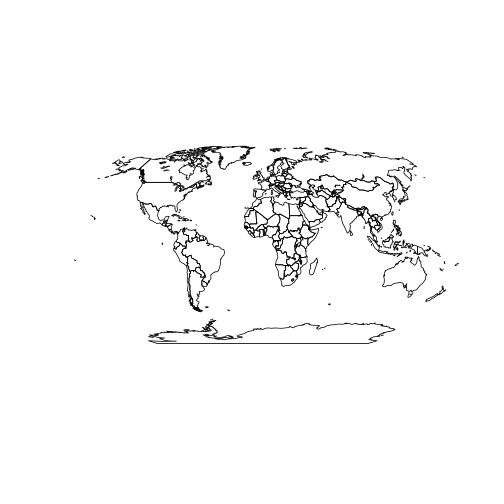
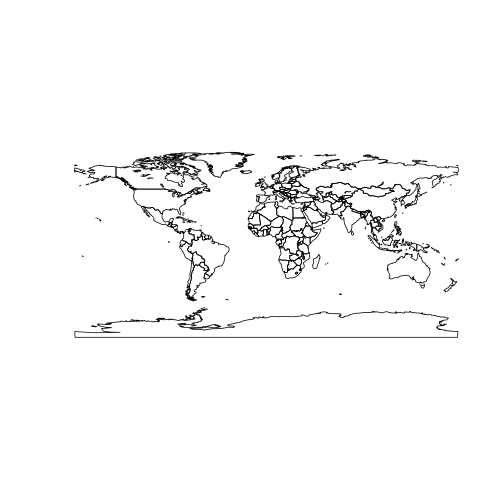
Updated also the README markdown file

diff --git a/README.md b/README.md
@@ -5,7 +5,7 @@ date: "27 April 2015"
 output: html_document
 ---
 
-`faogis` package provides you with the up-to-data shapefile that is compatible with [FAOSTAT](http://faostat.fao.org/) country codes (`FAO_CODE`). Also, shapefile data slot has a dummy variable for each FAO regions which you can subset while loading the shapefile. Fao regions are:
+`faogis` package provides you with the up-to-data shapefiles that are compatible with [FAOSTAT](http://faostat.fao.org/) country codes (`FAO_CODE`). Also, shapefiles data slots have a dummy variable for each FAO regions which you can subset the shapefile with. Fao regions are:
 
 - RAF (Africa)
 - LAC (Latin America and the Caribbean)
@@ -13,7 +13,15 @@ output: html_document
 - REU (Europe and Central Asia)
 - RNE (Near East and North Africa)
 
-There is only one function `load_fao_shape` that requires one attribute `region` that accept the fao regions as values. Default is `world` that returns the shapefile as whole.
+Shapefiles included
+
+1. **World Country Polygons** `fao_world` - class `SpatialPolygonDataFRame`
+2. **World Country Polygons Centroids** `fao_world_centroids` - class `SpatialPointDataFRame`
+
+<!--
+There are no function  only one function `load_fao_shape` that requires one attribute `region` that accept the fao regions as values. Default is `world` that returns the shapefile as whole.
+-->
+
 
 ## Install packages
 
@@ -23,41 +31,151 @@ devtools::install_github('muuankarski/gisfao')
 ```
 
 
-## Load the shapefile
+## Load and plot the polygon data
 
 
 
 ```r
-library(gisfao)
 library(sp)
-shape <- load_fao_shape()
-plot(shape)
+data(fao_world)
+plot(fao_world)
 ```
 
 ![plot of chunk unnamed-chunk-2](figure/unnamed-chunk-2-1.png) 
 
 
-## Subset the shapefile
+### Subset the data
 
 
 
 ```r
-RNE <- load_fao_shape(region = "RNE")
-plot(RNE)
+shape <- fao_world[which(fao_world[["RNE"]] == TRUE),]
+plot(shape)
 ```
 
 ![plot of chunk unnamed-chunk-3](figure/unnamed-chunk-3-1.png) 
 
-or 
+
+### Plot with ggplot2
+
 
 
 ```r
-world <- load_fao_shape(region = "world")
-RNE <- fao_world[which(fao_world[["RNE"]] == TRUE),]
-plot(RNE)
+shape <- fao_world[which(fao_world[["RNE"]] == TRUE),]
+library(ggplot2)
+map.df <- fortify(shape)
+```
+
+```
+## Regions defined for each Polygons
+```
+
+```r
+p <- ggplot()
+p <- p + geom_polygon(data=map.df,aes(long,lat,group=group), 
+                      fill="Firebrick", color="white", size=.5, alpha=.5)
+p
 ```
 
 ![plot of chunk unnamed-chunk-4](figure/unnamed-chunk-4-1.png) 
 
+### Plot with ggplot2 using Robinson projection
 
+
+```r
+library(rgdal)
+shape <- spTransform(fao_world, CRS("+proj=robin"))
+library(ggplot2)
+map.df <- fortify(shape)
+```
+
+```
+## Regions defined for each Polygons
+```
+
+```r
+p <- ggplot()
+p <- p + geom_polygon(data=map.df,aes(long,lat,group=group), 
+                      fill="Firebrick", color="white", size=.5, alpha=.5)
+p
+```
+
+![plot of chunk unnamed-chunk-5](figure/unnamed-chunk-5-1.png) 
+
+
+## Load and plot the point data
+
+
+
+```r
+library(sp)
+data(fao_world_centroids)
+plot(fao_world_centroids)
+```
+
+![plot of chunk unnamed-chunk-6](figure/unnamed-chunk-6-1.png) 
+
+
+### Subset the data
+
+
+
+```r
+shape <- fao_world_centroids[which(fao_world_centroids[["RNE"]] == TRUE),]
+plot(shape)
+```
+
+![plot of chunk unnamed-chunk-7](figure/unnamed-chunk-7-1.png) 
+
+ADM0_NAME
+### Plot with ggplot2
+
+
+
+```r
+shape <- fao_world_centroids[which(fao_world_centroids[["RNE"]] == TRUE),]
+# fortify the SpatialPointsDataFrame
+points <- cbind(coordinates(shape), shape@data)
+
+names(points)[names(points)=="x"] <- "long"
+names(points)[names(points)=="y"] <- "lat"
+
+library(ggplot2)
+p <- ggplot()
+p <- p + geom_point(data=points,aes(long,lat), color="Firebrick", size=3, color="Firebrick")
+p
+```
+
+![plot of chunk unnamed-chunk-8](figure/unnamed-chunk-8-1.png) 
+
+### Plot the polygons and points with ggplot2 using Robinson projection
+
+
+```r
+library(rgdal)
+# Set new robinson projection for both data
+shape <- spTransform(fao_world, CRS("+proj=robin"))
+points <- spTransform(fao_world_centroids, CRS("+proj=robin"))
+# Fortify both data
+map.df <- fortify(shape)
+```
+
+```
+## Regions defined for each Polygons
+```
+
+```r
+points.df <- cbind(coordinates(points), points@data)
+names(points.df)[names(points.df)=="x"] <- "long"
+names(points.df)[names(points.df)=="y"] <- "lat"
+
+p <- ggplot()
+p <- p + geom_polygon(data=map.df,aes(long,lat,group=group), 
+                      fill="Firebrick", color="white", size=.5, alpha=.5)
+p <- p + geom_point(data=points.df,aes(long,lat), color="Firebrick", size=3, color="Firebrick")
+p <- p + geom_text(data=points.df,aes(long,lat,label=ADM0_NAME), color="Dim Grey", size=3)
+p
+```
+
+![plot of chunk unnamed-chunk-9](figure/unnamed-chunk-9-1.png) 
 
